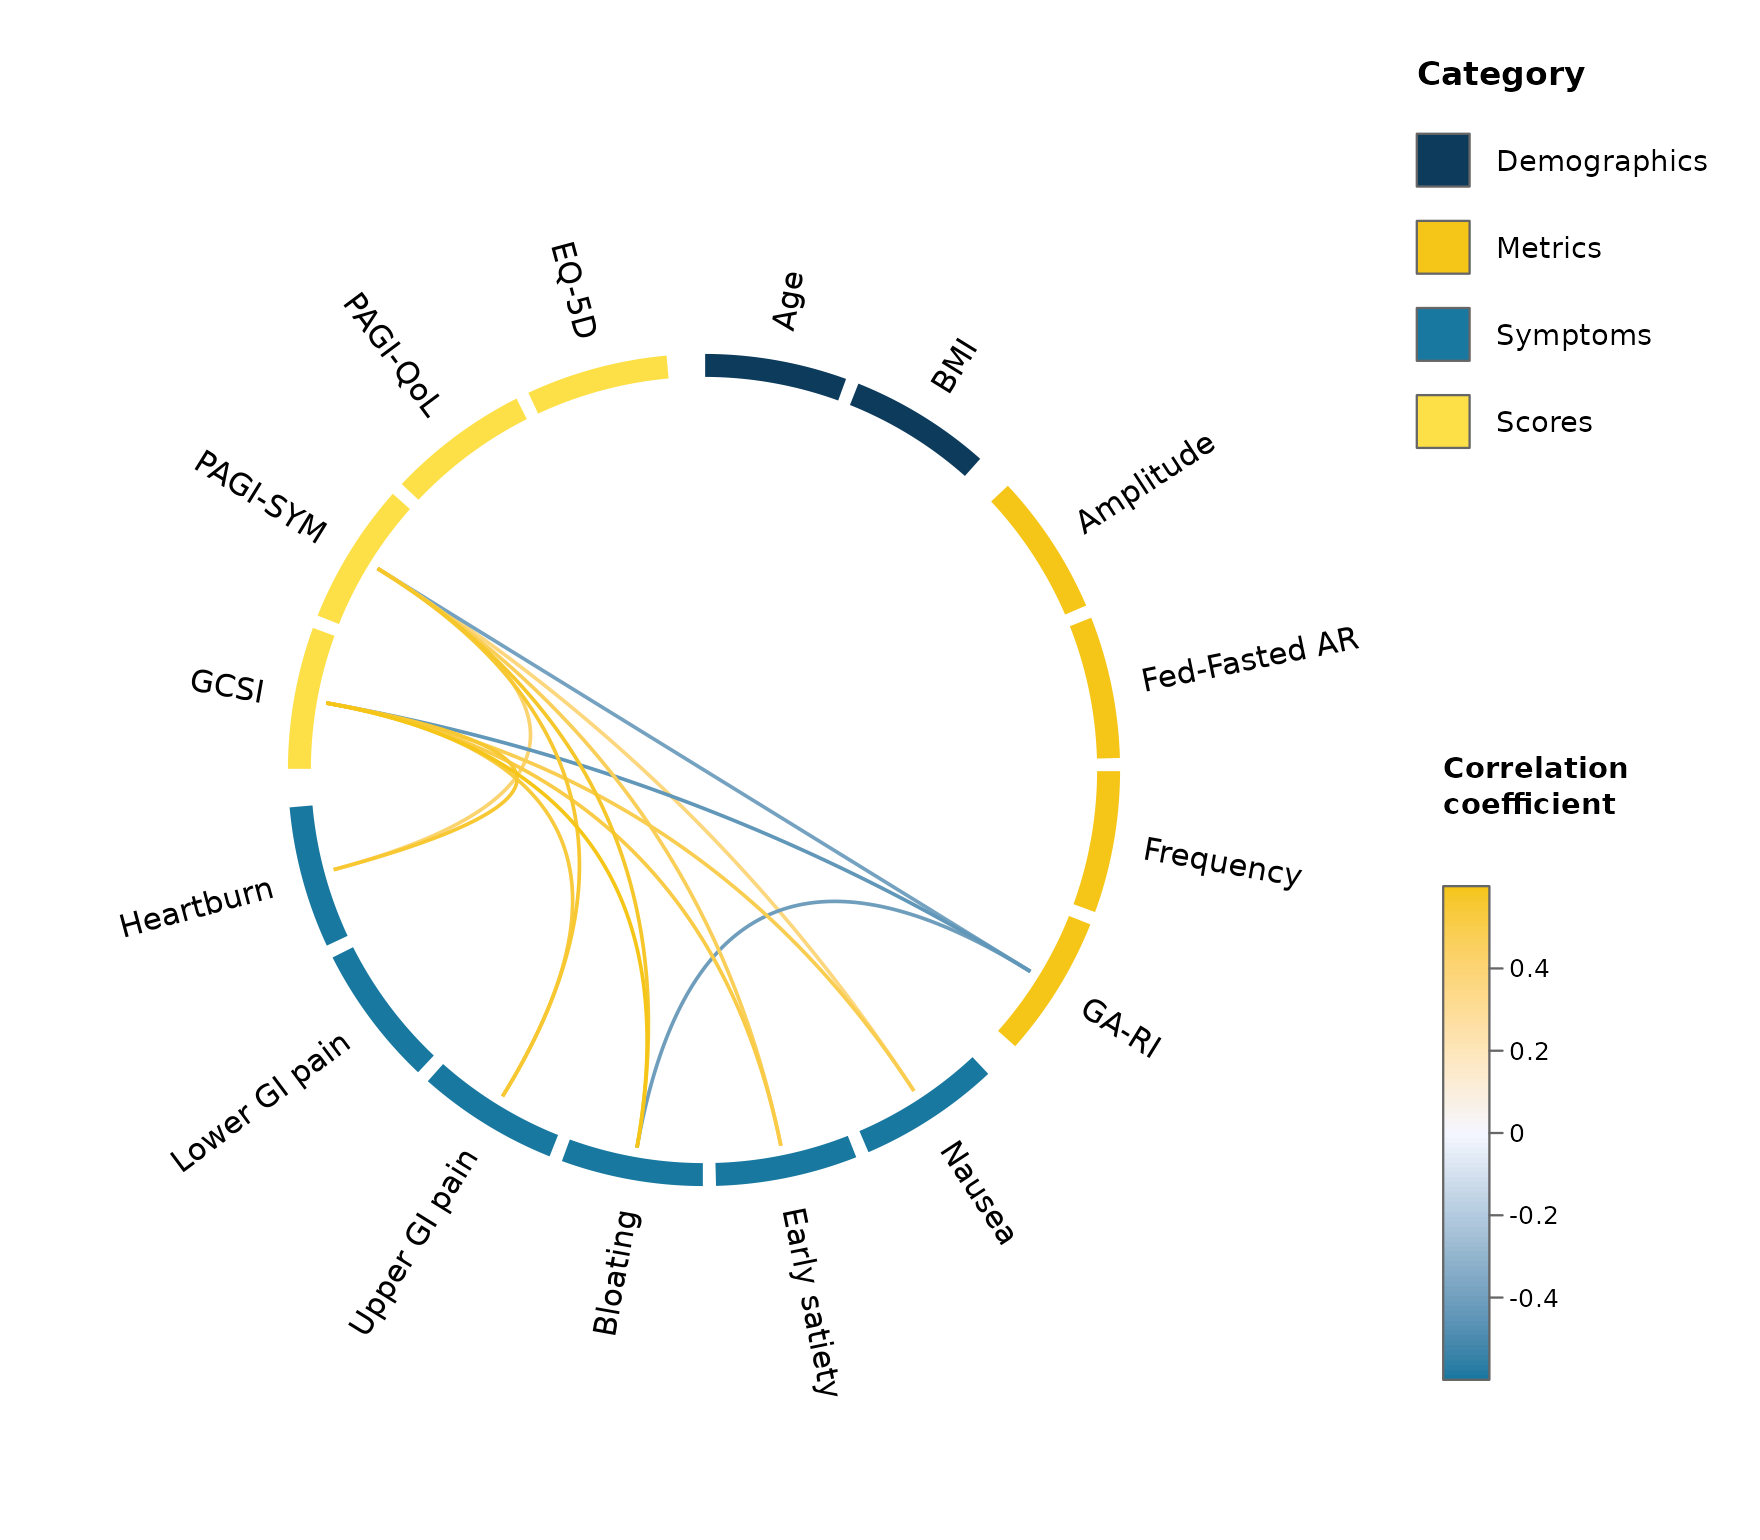
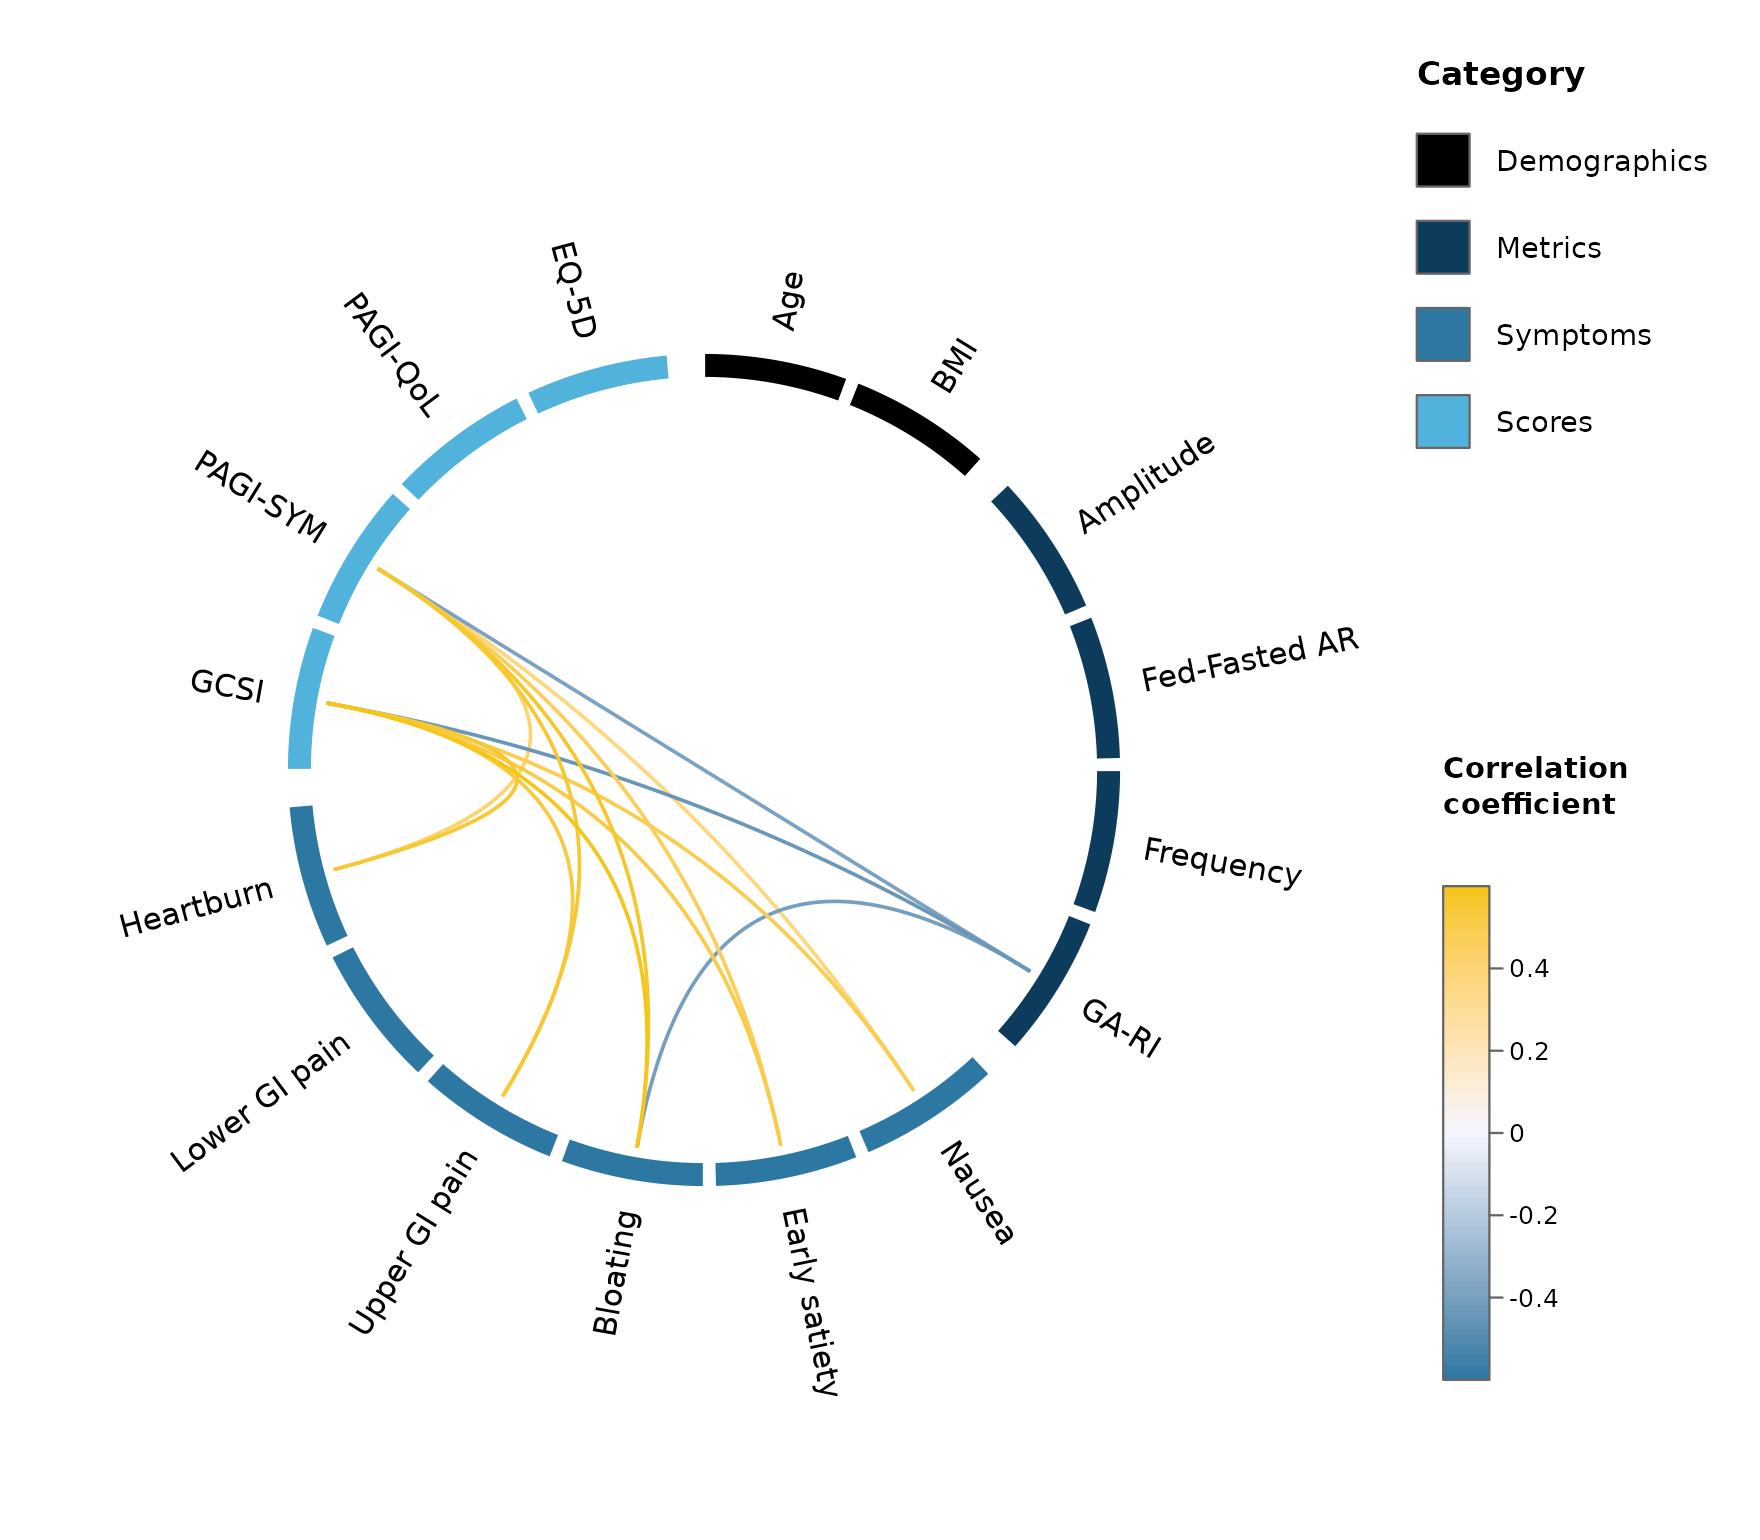
Deploying to gh-pages from @ kriz98/circlecorR@daa33881f0033e643b137e9294b70c2e39a54e5c 🚀

diff --git a/articles/circlecorR.html b/articles/circlecorR.html
@@ -260,7 +260,8 @@ violet, slate) for categories, with a blue-to-warm diverging scale.</li>
 <code>"vivid"</code> – a brighter, higher-contrast categorical
 palette, still paired with the blue-white-red diverging scale.</li>
 <li>
-<code>"alimetry"</code> – blues alternating with warm golds, with a
+<code>"alimetry"</code> – black and shades of blue through cyan for
+most categories, with a single gold used as a sparing highlight, and a
 matching blue-to-yellow diverging scale.</li>
 </ul>
 <div class="sourceCode" id="cb10"><pre class="downlit sourceCode r">

diff --git a/articles/circlecorR.md b/articles/circlecorR.md
@@ -221,8 +221,9 @@ corr_wheel_schemes()
   for categories, with a blue-to-warm diverging scale.
 - `"vivid"` – a brighter, higher-contrast categorical palette, still
   paired with the blue-white-red diverging scale.
-- `"alimetry"` – blues alternating with warm golds, with a matching
-  blue-to-yellow diverging scale.
+- `"alimetry"` – black and shades of blue through cyan for most
+  categories, with a single gold used as a sparing highlight, and a
+  matching blue-to-yellow diverging scale.
 
 ``` r
 